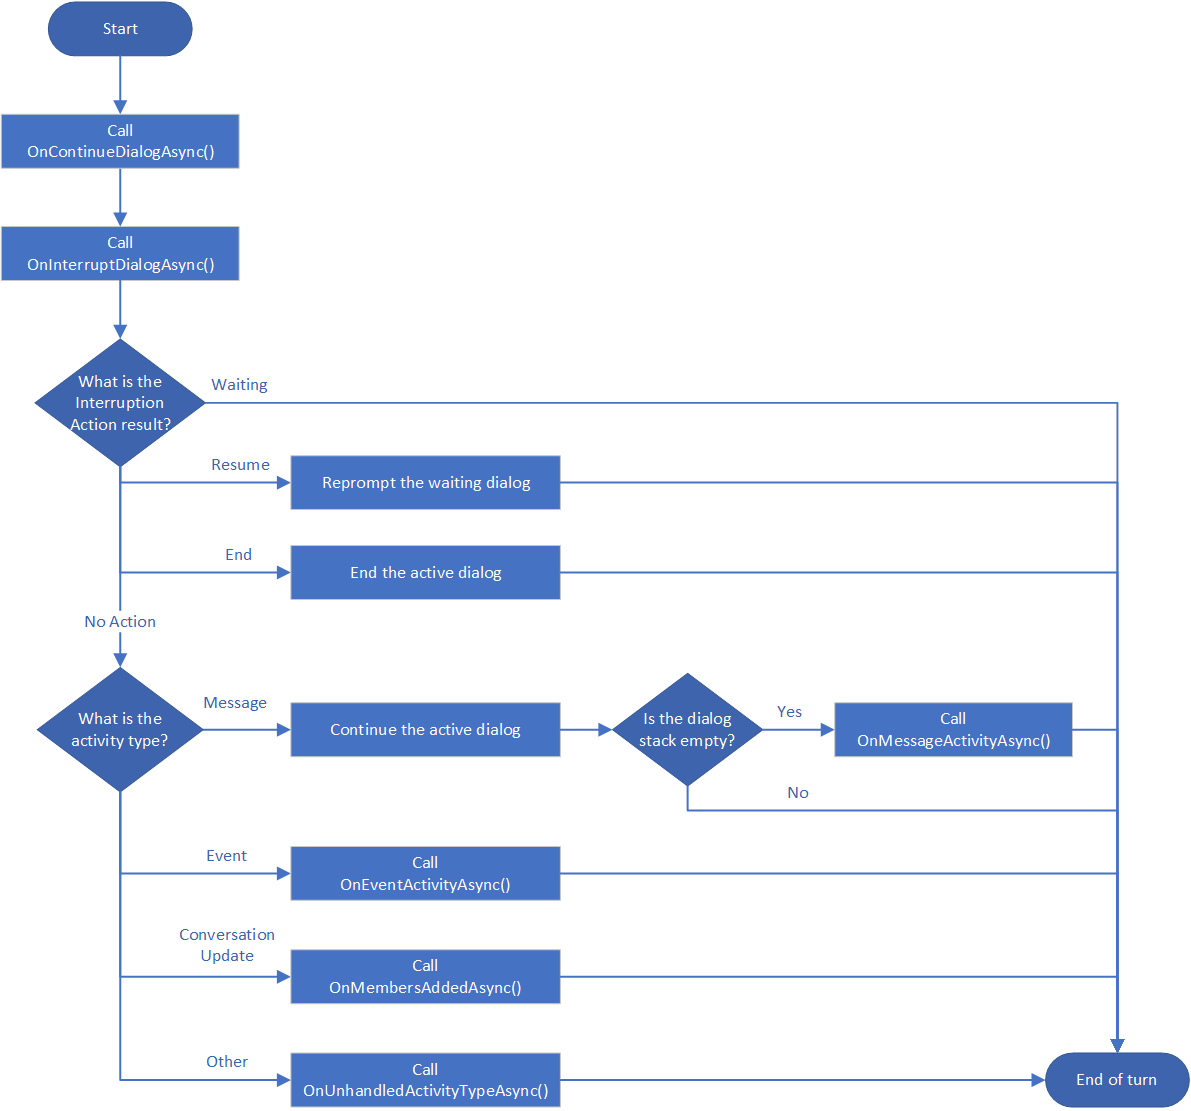
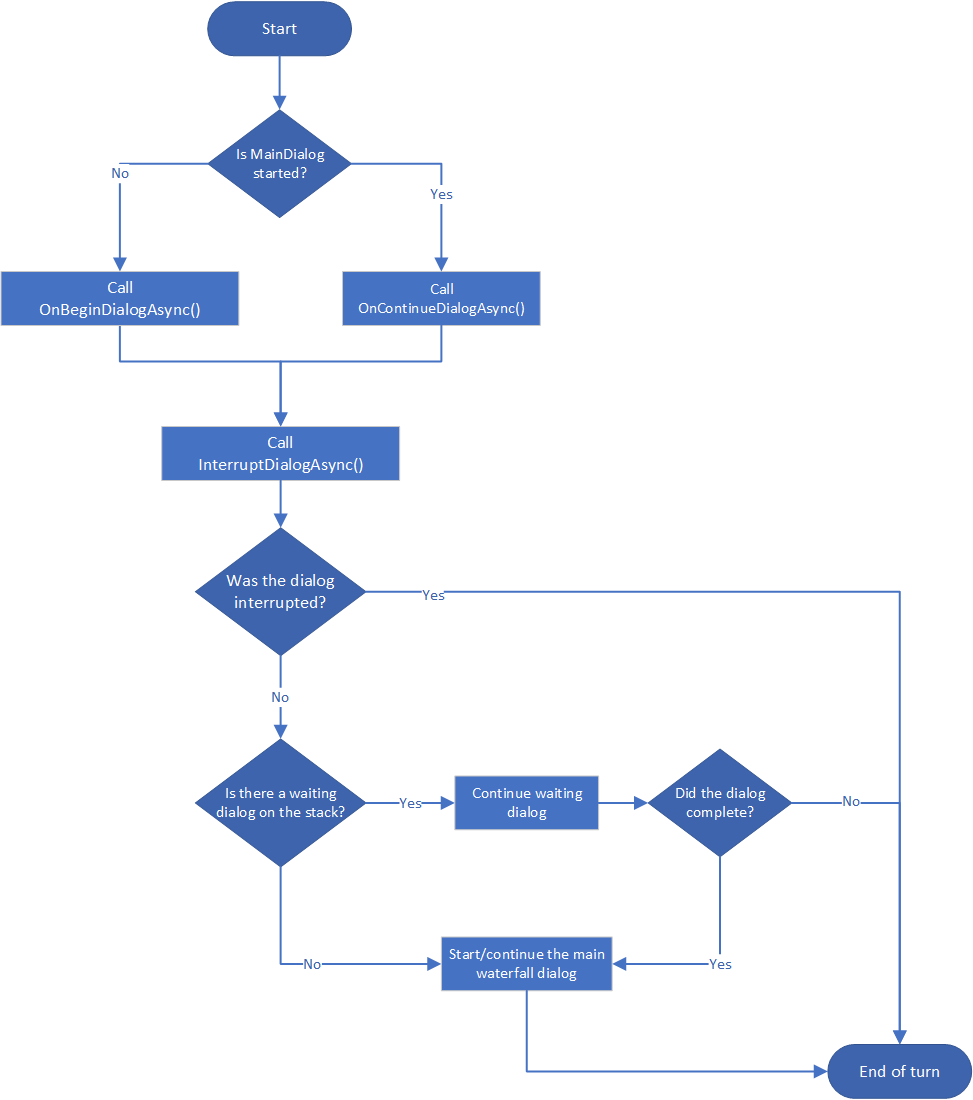
Updated 0.8 release doc with main dialog updates and updated activity flow diagram

diff --git a/docs/_docs/virtual-assistant/handbook/activity-flow.md b/docs/_docs/virtual-assistant/handbook/activity-flow.md
@@ -28,12 +28,12 @@ Incoming activities are initially received through the BotAdapter implementation
 After the activity is processed by the Adapter and Middleware pipeline, it is received by the **ActivityHandler** implementation. The **DefaultActivityHandler** in the template implements the TeamsActivityHandler which enables Teams scenarios out of the box. By default, the **DefaultActivityHandler** passes the incoming message into the **MainDialog**. However, this logic can be customized as needed.
 
 ## Dialogs
-The **DefaultActivityHandler** passes incoming activities into the **MainDialog**. **MainDialog** implements the **ActivityHandlerDialog**, which provides its own routing logic for handling activities of different types, as well as enables interruptions. The following diagram shows how the activities flow through the different methods in **MainDialog**:
+The **DefaultActivityHandler** passes incoming activities into the **MainDialog**. The MainDialog is composed of a repeating Waterfall Dialog that contains introduction and routing logic. The following diagram shows how the activities flow through the different methods in **MainDialog**:
 
 ![]({{site.baseurl}}/assets/images/virtual-assistant-main-dialog-flow.png)
 
 ### Interruptions
-Once an activity flows into MainDialog, one of the first methods that will be called is OnInterruptDialogAsync(). The following interruptions are configured out of the box:
+Once an activity flows into MainDialog, one of the first methods that will be called is InterruptDialogAsync(). The following interruptions are configured out of the box:
 - **Switching between Skills** - Switches between connected skills based on intent.
 - **Cancellation** - Cancels the current dialog.
 - **Help** - Sends a help message, then resumes the waiting dialog.
@@ -42,11 +42,3 @@ Once an activity flows into MainDialog, one of the first methods that will be ca
 - **Repeat** - Repeats the last set of activities from the bot. Useful for speech scenarios.
 - **Start over** - Starts the current dialog over.
 - **Stop** - Can be implemented to stop readout in speech scenarios.
-
-### Activity Routing
-Once interruptions are evaluated, the activity is processed according to its activity type: 
-
-- **OnMessageActivityAsync()** - Any incoming message activities that were not handled by a waiting dialog.
-- **OnMembersAddedAsync()** - Any incoming conversation update activity. Used for introduction logic.
-- **OnEventActivityAsync()** - Any incoming event activity
-- **OnUnhandledActivityTypeAsync()** - Any other incoming activity.

diff --git a/docs/_docs/overview/whats-new/0.8-beta/maindialog-updates.md b/docs/_docs/overview/whats-new/0.8-beta/maindialog-updates.md
@@ -1,0 +1,55 @@
+---
+category: Overview
+subcategory: What's New
+language: 0_8_release
+title: MainDialog updates
+date: 2020-02-03
+description: Steps for updating to Waterfall MainDialog implementation
+order: 3
+toc: true
+---
+
+# Beta Release 0.8
+## {{ page.title }}
+{:.no_toc}
+{{ page.description }}
+
+### Steps
+1. Move introduction logic to DefaultActivityHandler OnMembersAddedAsync method.
+1. Copy routing logic from OnMessageActivityAsync method into RouteStepAsync method.
+    - Change any switch statement cases that start new dialogs to return the result of BeginDialogAsync like below for proper dialog flow management:
+
+        #### Previous implementation
+        ```csharp
+        await dc.BeginDialogAsync("Faq");
+        ```
+
+        #### New Implementation
+        ```csharp
+        return await stepContext.BeginDialogAsync("Faq");
+        ```
+1. Copy interruption logic from OnInterruptDialogAsync into InterruptDialogAsync
+
+    - InterruptionActions have been deprecated, so each interruption should now manage the dialog continuation/cancellation on its own. 
+
+        #### Previous implementation
+        ```csharp
+        case GeneralLuis.Intent.Cancel:
+            {
+                await dc.Context.SendActivityAsync(_templateEngine.GenerateActivityForLocale("CancelledMessage"));
+                await dc.CancelAllDialogsAsync();
+                return InterruptionAction.End;
+            }
+        ```
+
+        #### New Implementation
+        ```csharp
+        case GeneralLuis.Intent.Cancel:
+        {
+            await innerDc.Context.SendActivityAsync(_templateEngine.GenerateActivityForLocale("CancelledMessage", userProfile));
+            await innerDc.CancelAllDialogsAsync();
+            await innerDc.BeginDialogAsync(InitialDialogId);
+            interrupted = true;
+            break;
+        }
+        ```

diff --git a/docs/_docs/overview/whats-new/0.8-beta/Summary.md b/docs/_docs/overview/whats-new/0.8-beta/Summary.md
@@ -38,6 +38,13 @@ This release updates the Virtual Assistant Template to use the QnAMakerDialog re
 For more guidance on how to update your project to use this feature, refer to the following articles:
 - [QnA Maker updates]({{site.baseurl}}/overview/whats-new/0.8-beta/qnamaker)
 
+### MainDialog.cs updates
+In this release the ActivityHandlerDialog.cs has been deprecated and replaced with a Waterfall Dialog implementation in the MainDialog of the Virtual Assistant and Skill templates. 
+
+For more guidance on how to update your Virtual Assistant to use the updated MainDialog approach, refer to the following article:
+- [MainDialog updates]({{site.baseurl}}//overview/whats-new/0.8-beta/maindialog-updates)
+
+
 ### Deployment updates
 {:.no_toc}
 
